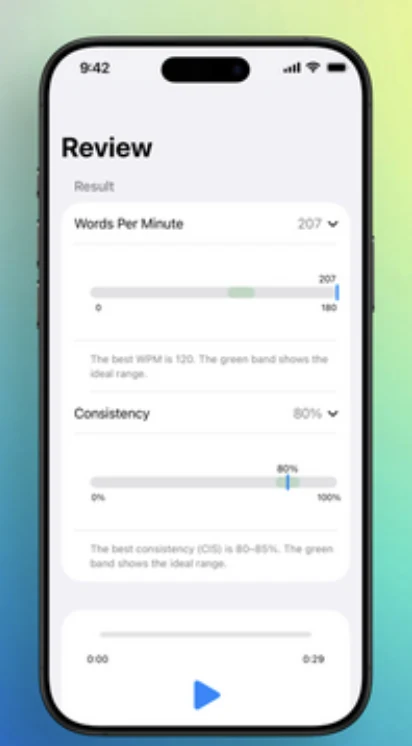
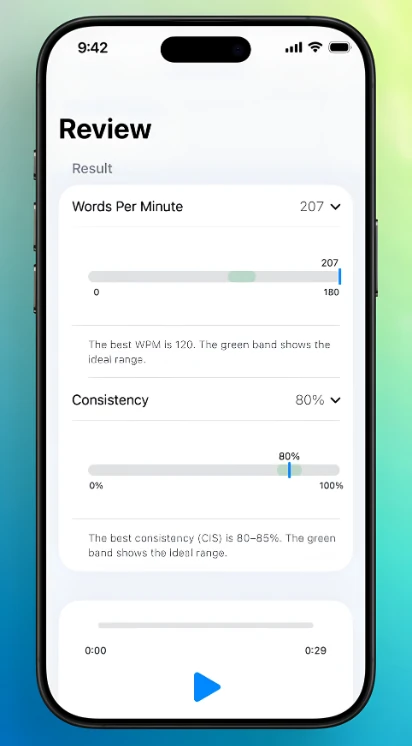
Higher-quality Scripties screenshot

diff --git a/index.html b/index.html
@@ -126,7 +126,7 @@
             <a class="link-chevron" href="https://github.com/quantamShade0337" target="_blank" rel="noopener">Learn more <span>›</span></a>
           </div>
           <div class="project-visual reveal" style="--d:.12s">
-            <img class="shot shot-phone" src="shot-scripties.webp" alt="Scripties — speech review with words-per-minute and consistency scores" loading="lazy" />
+            <img class="shot shot-phone" src="shot-scripties.webp?v=2" alt="Scripties — speech review with words-per-minute and consistency scores" loading="lazy" />
           </div>
         </div>
       </div>
